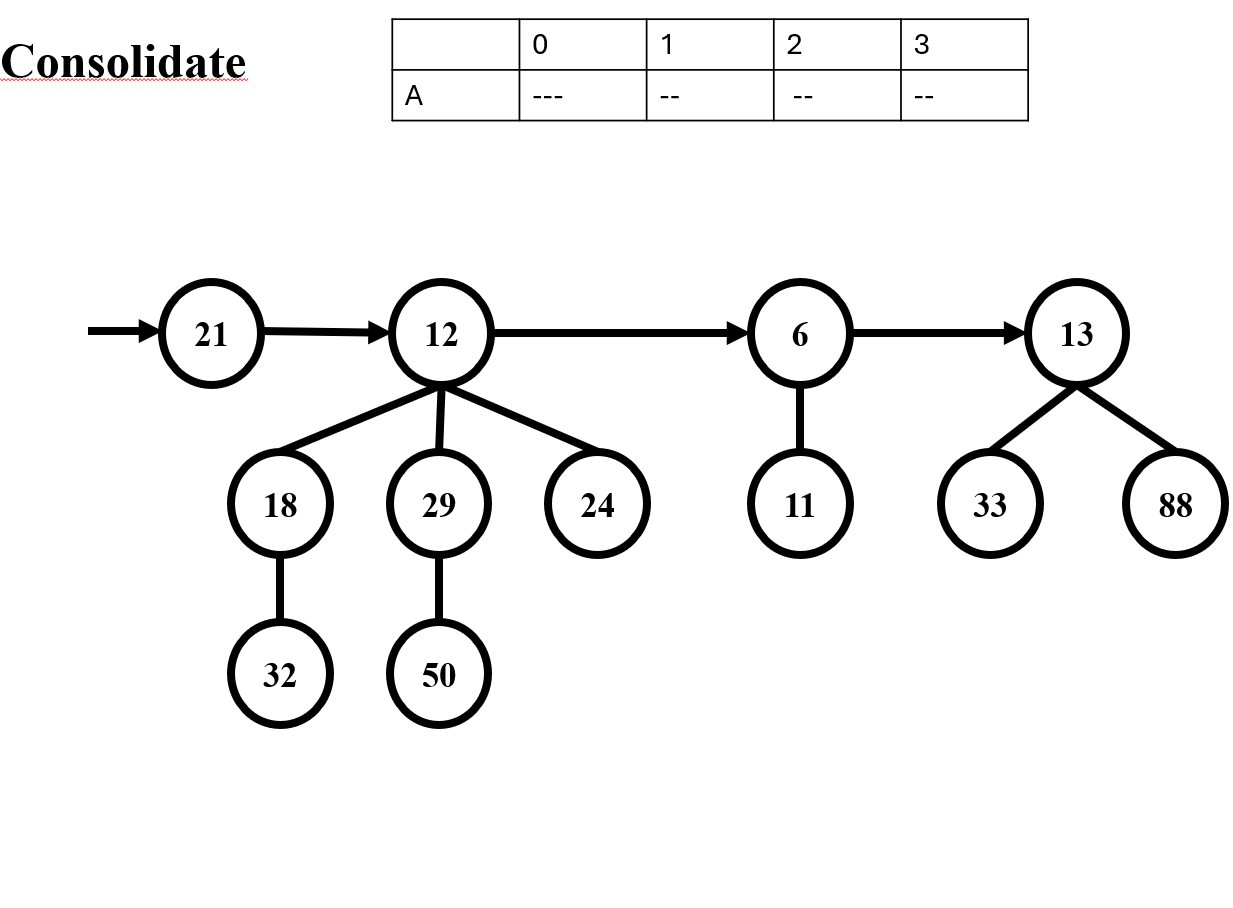
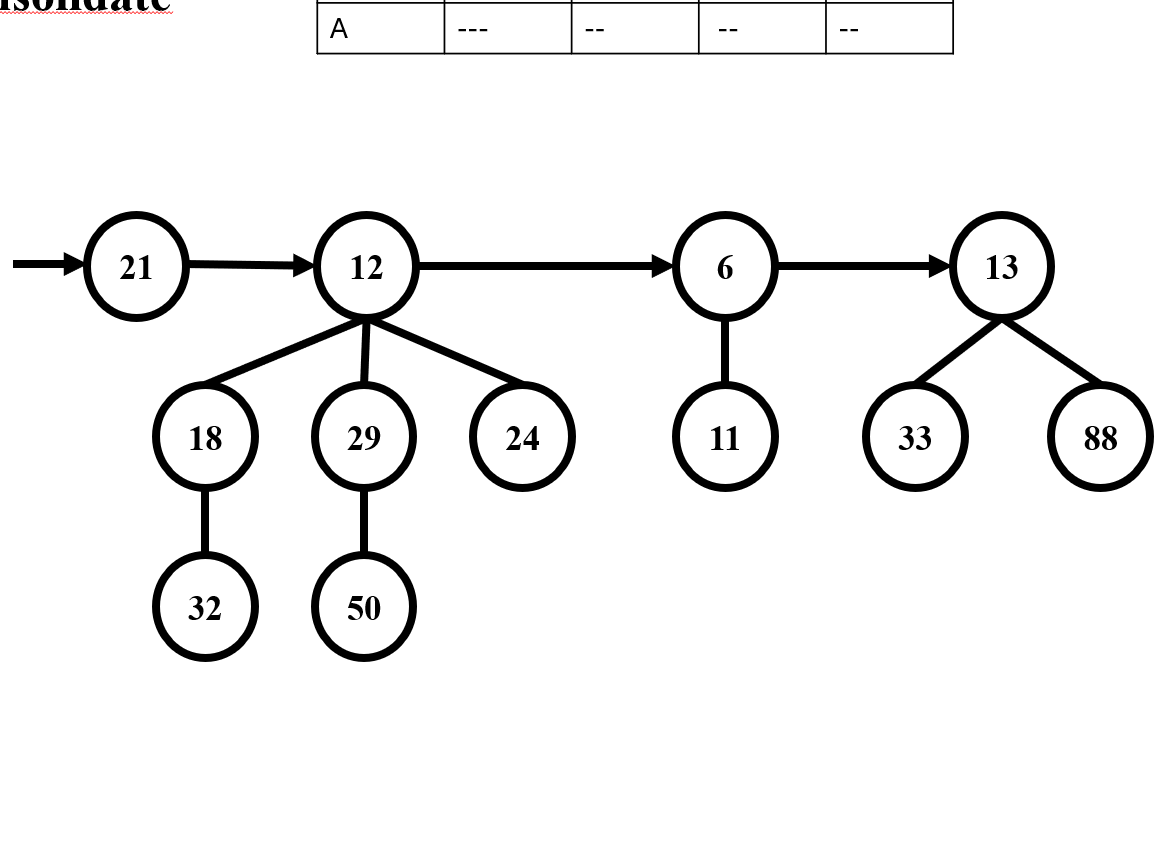
edited media for informatikstudium overview

Changed region(s): [[0.0, 0.2473, 1.0, 0.8038], [0.2798, 0.0, 0.8394, 0.1546], [0.0, 0.0, 0.2176, 0.0927]]

diff --git a/src/informatikstudium.html b/src/informatikstudium.html
@@ -53,7 +53,7 @@
 
             <article class="blog-card">
                 <div class="blog-thumb blog-thumb--placeholder">
-                    <span class="blog-thumb-icon">🧪</span>
+                    <img src="../media/projekte/datastructurelab.png" alt="DatastructureLab Visualisierung">
                 </div>
                 <div class="blog-body">
                     <span class="blog-date">Sommersemester 2026</span>